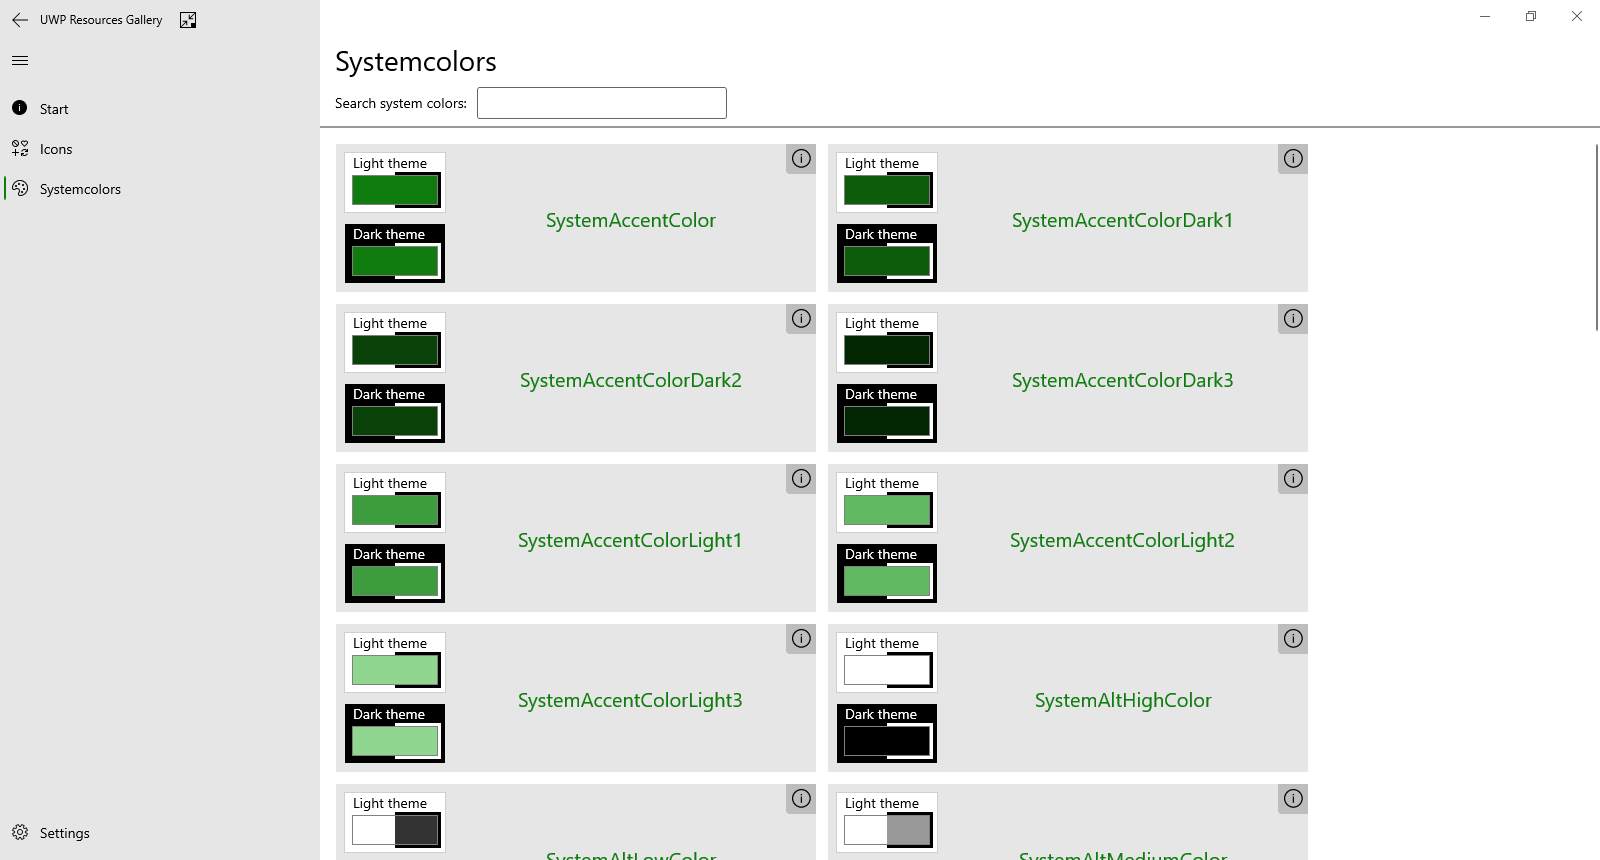
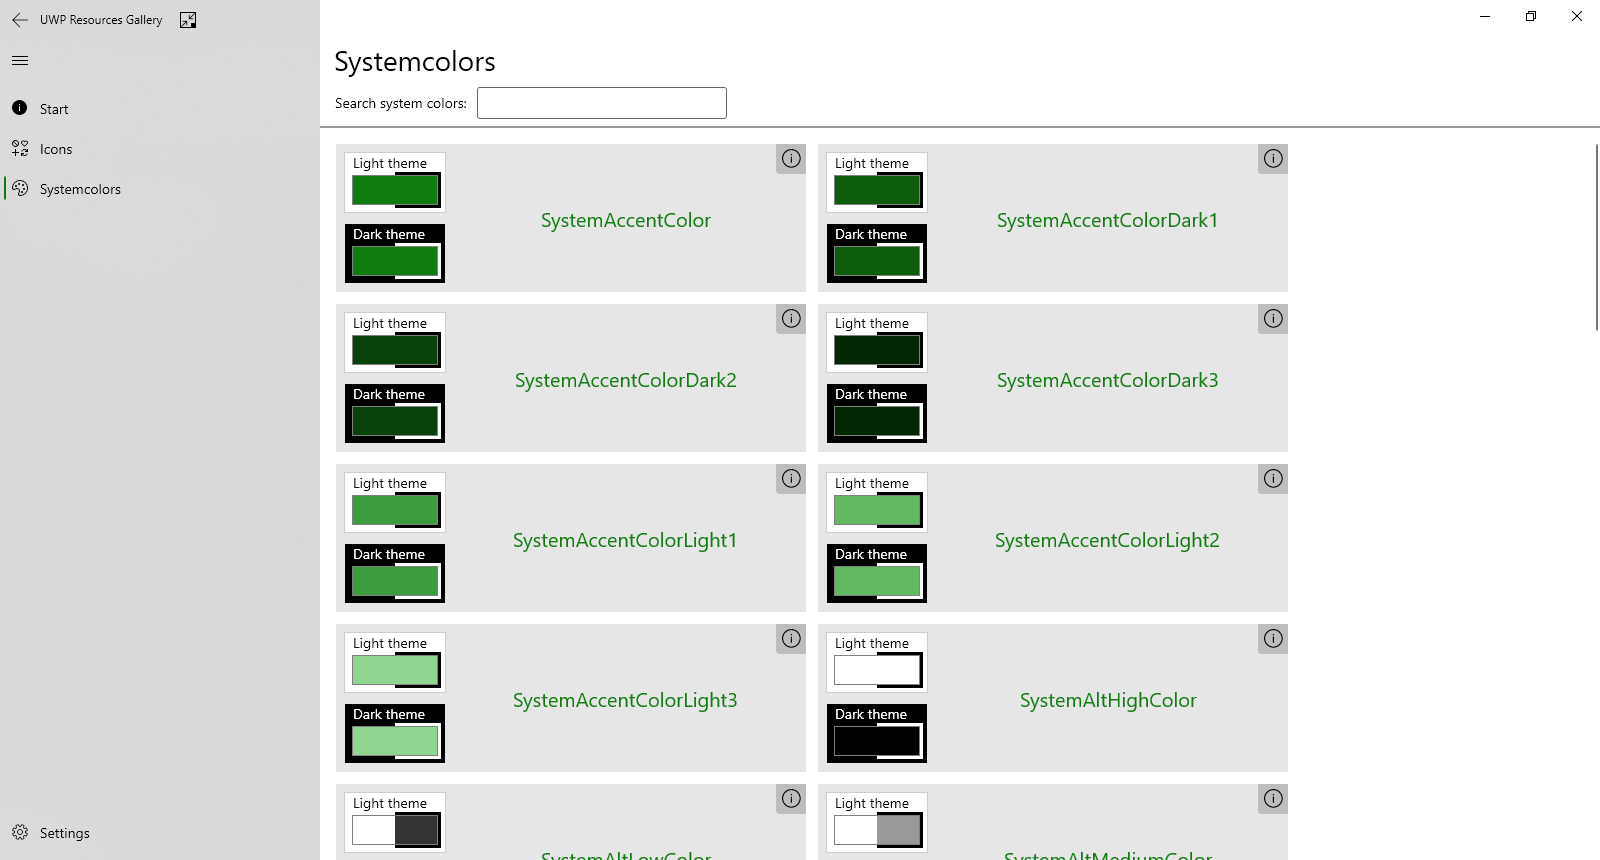
Version 1.0.2 (#11)
* Add acrylic, small changes to margins and sizing, fix systembrushes json

* Improve acrylic opacity

* Update screenshots

* Run code analysis

* Increase version

* Fix mixed access modifier

diff --git a/src/UWPResourcesGallery/App.xaml b/src/UWPResourcesGallery/App.xaml
@@ -3,12 +3,7 @@
     xmlns="http://schemas.microsoft.com/winfx/2006/xaml/presentation"
     xmlns:x="http://schemas.microsoft.com/winfx/2006/xaml"
     xmlns:contract7Present="http://schemas.microsoft.com/winfx/2006/xaml/presentation?IsApiContractPresent(Windows.Foundation.UniversalApiContract, 7)"
-    xmlns:contract7NotPresent="http://schemas.microsoft.com/winfx/2006/xaml/presentation?IsApiContractNotPresent(Windows.Foundation.UniversalApiContract,7)"
-    xmlns:local="using:UWPResourcesGallery"
-    xmlns:common="using:UWPResourcesGallery.Common"
-    xmlns:muxm="using:Microsoft.UI.Xaml.Media"
-    xmlns:muxc="using:Microsoft.UI.Xaml.Controls"
-    xmlns:primitives="using:Microsoft.UI.Xaml.Controls.Primitives">
+    xmlns:common="using:UWPResourcesGallery.Common">
     <Application.Resources>
 
         <ResourceDictionary>
@@ -20,6 +15,11 @@
             <common:BoolToVisibilityConverter x:Key="BoolToVisibilityConverter"/>
             <common:StringValueToVisibilityConverter x:Key="StringValueToVisibilityConverter"/>
 
+            <AcrylicBrush x:Key="NavigationViewExpandedPaneBackground"
+                    BackgroundSource="HostBackdrop"
+                    TintColor="{ThemeResource SystemChromeMediumColor}"
+                    TintOpacity="0.9"
+                    FallbackColor="{ThemeResource SystemChromeMediumColor}"/>
             <!-- "Copy text" - Button style-->
             <Style x:Key="CopyButtonStyle" TargetType="Button">
                 <Setter Property="Margin" Value="15,5,0,5"/>

diff --git a/src/UWPResourcesGallery/Controls/Common/CodeSample.xaml b/src/UWPResourcesGallery/Controls/Common/CodeSample.xaml
@@ -1,10 +1,7 @@
 <UserControl
     x:Class="UWPResourcesGallery.Controls.Common.CodeSample"
     xmlns="http://schemas.microsoft.com/winfx/2006/xaml/presentation"
-    xmlns:x="http://schemas.microsoft.com/winfx/2006/xaml"
-    xmlns:local="using:UWPResourcesGallery.Controls.Common"
-    xmlns:d="http://schemas.microsoft.com/expression/blend/2008"
-    xmlns:mc="http://schemas.openxmlformats.org/markup-compatibility/2006">
+    xmlns:x="http://schemas.microsoft.com/winfx/2006/xaml">
 
     <UserControl.Resources>
         <x:Double x:Key="CodeFontSize">14</x:Double>

diff --git a/src/UWPResourcesGallery/Controls/Templates/SystemColorPresenter.xaml b/src/UWPResourcesGallery/Controls/Templates/SystemColorPresenter.xaml
@@ -15,7 +15,7 @@
         <muxc:TeachingTip x:Key="InfoTeachingTip" IsLightDismissEnabled="True" Title="Information" Subtitle=""/>
     </UserControl.Resources>
 
-    <Grid Padding="8" Width="480" Background="{ThemeResource SystemControlBackgroundListLowBrush}" >
+    <Grid Padding="8" Width="470" Background="{ThemeResource SystemControlBackgroundListLowBrush}" >
         <Grid.ColumnDefinitions>
             <ColumnDefinition Width="Auto"/>
             <ColumnDefinition Width="8"/>

diff --git a/src/UWPResourcesGallery/Controls/Common/DualThemePresenter.xaml b/src/UWPResourcesGallery/Controls/Common/DualThemePresenter.xaml
@@ -2,7 +2,6 @@
     x:Class="UWPResourcesGallery.Controls.Common.DualThemePresenter"
     xmlns="http://schemas.microsoft.com/winfx/2006/xaml/presentation"
     xmlns:x="http://schemas.microsoft.com/winfx/2006/xaml"
-    xmlns:local="using:UWPResourcesGallery.Controls.Common"
     xmlns:d="http://schemas.microsoft.com/expression/blend/2008"
     xmlns:mc="http://schemas.openxmlformats.org/markup-compatibility/2006"
     mc:Ignorable="d"

diff --git a/src/UWPResourcesGallery/AppNavigation.xaml b/src/UWPResourcesGallery/AppNavigation.xaml
@@ -91,7 +91,7 @@
             <Frame x:Name="RootFrame" Padding="0,40,0,0">
                 <Frame.ContentTransitions>
                     <TransitionCollection>
-                        <NavigationThemeTransition  />
+                        <NavigationThemeTransition/>
                     </TransitionCollection>
                 </Frame.ContentTransitions>
             </Frame>

diff --git a/src/UWPResourcesGallery/Pages/IconsListPage.xaml b/src/UWPResourcesGallery/Pages/IconsListPage.xaml
@@ -44,7 +44,7 @@
             <ColumnDefinition Width="*"/>
         </Grid.ColumnDefinitions>
 
-        <common:PageHeader PageName="Segoe MDL2 Icons" Margin="15,0,0,0"/>
+        <common:PageHeader PageName="Segoe MDL2 Icons" Margin="14,0,0,0"/>
 
         <Grid Grid.Row="1">
             <Grid.ColumnDefinitions>

diff --git a/src/UWPResourcesGallery/Pages/SystemColorsPage.xaml b/src/UWPResourcesGallery/Pages/SystemColorsPage.xaml
@@ -20,7 +20,7 @@
             <ColumnDefinition Width="*"/>
         </Grid.ColumnDefinitions>
 
-        <common:PageHeader PageName="Systemcolors" Margin="15,0,0,0"/>
+        <common:PageHeader PageName="Systemcolors" Margin="14,0,0,0"/>
 
         <Grid Grid.Row="1">
             <Grid.ColumnDefinitions>

diff --git a/tests/ControlTests/UITests/CodeSampleTests.cs b/tests/ControlTests/UITests/CodeSampleTests.cs
@@ -1,17 +1,10 @@
 using Microsoft.VisualStudio.TestTools.UnitTesting;
 using Microsoft.VisualStudio.TestTools.UnitTesting.AppContainer;
 using System;
-using System.Collections.Generic;
-using System.Linq;
-using System.Text;
 using System.Threading.Tasks;
 using UWPResourcesGallery.Controls.Common;
-using Windows.UI.Xaml.Controls;
 using Windows.UI.Xaml.Automation.Peers;
-using Windows.UI.Xaml.Automation.Provider;
-using Windows.UI.Xaml;
-using Windows.UI.Core;
-using Windows.UI.ViewManagement;
+using Windows.UI.Xaml.Controls;
 
 namespace ControlTests.UITests
 {
@@ -22,13 +15,13 @@ namespace ControlTests.UITests
         [UITestMethod]
         public void VerifyRenderedText()
         {
-            var codeSampleNormal = (CodeSample)ControlsTestPage.Instance.FindName("CodeSampleNormal");
-            var codeText = (RichTextBlock)codeSampleNormal.FindName("CodeBlock");
+            CodeSample codeSampleNormal = (CodeSample)ControlsTestPage.Instance.FindName("CodeSampleNormal");
+            RichTextBlock codeText = (RichTextBlock)codeSampleNormal.FindName("CodeBlock");
             codeText.SelectAll();
 
             Assert.AreEqual("Code", codeText.SelectedText);
 
-            var codeSampleHighlightingEnabled = (CodeSample)ControlsTestPage.Instance.FindName("CodeSampleWithHighlighting");
+            CodeSample codeSampleHighlightingEnabled = (CodeSample)ControlsTestPage.Instance.FindName("CodeSampleWithHighlighting");
             codeText = (RichTextBlock)codeSampleHighlightingEnabled.FindName("CodeBlock");
             codeText.SelectAll();
 
@@ -40,19 +33,20 @@ namespace ControlTests.UITests
         {
             try
             {
-                var codeSampleNormal = (CodeSample)ControlsTestPage.Instance.FindName("CodeSampleNormal");
-                var copyButton = new ButtonAutomationPeer((Button)codeSampleNormal.FindName("CopyButton"));
+                CodeSample codeSampleNormal = (CodeSample)ControlsTestPage.Instance.FindName("CodeSampleNormal");
+                ButtonAutomationPeer copyButton = new ButtonAutomationPeer((Button)codeSampleNormal.FindName("CopyButton"));
 
                 copyButton.Invoke();
                 Assert.AreEqual("Code", GetClipBoardText());
 
-                var codeSampleHighlightingEnabled = (CodeSample)ControlsTestPage.Instance.FindName("CodeSampleWithHighlighting");
+                CodeSample codeSampleHighlightingEnabled = (CodeSample)ControlsTestPage.Instance.FindName("CodeSampleWithHighlighting");
                 copyButton = new ButtonAutomationPeer((Button)codeSampleHighlightingEnabled.FindName("CopyButton"));
 
                 copyButton.Invoke();
 
                 Assert.AreEqual("<Code />", GetClipBoardText());
-            }catch (UnauthorizedAccessException)
+            }
+            catch (UnauthorizedAccessException)
             {
                 // Pasting to clipboard is not allowed while app is in background
 #pragma warning disable CA1303 // Do not pass literals as localized parameters
@@ -61,13 +55,15 @@ namespace ControlTests.UITests
             }
         }
 
-        private static string GetClipBoardText(){
-            var clipBoard = Windows.ApplicationModel.DataTransfer.Clipboard.GetContent();
-            var task = clipBoard.GetTextAsync().AsTask();
+        private static string GetClipBoardText()
+        {
+            Windows.ApplicationModel.DataTransfer.DataPackageView clipBoard = Windows.ApplicationModel.DataTransfer.Clipboard.GetContent();
+            Task<string> task = clipBoard.GetTextAsync().AsTask();
             try
             {
                 task.RunSynchronously();
-            } catch(InvalidOperationException) { }
+            }
+            catch (InvalidOperationException) { }
             return task.Result;
         }
     }

diff --git a/tests/AppInteractionTests/TestHelper.cs b/tests/AppInteractionTests/TestHelper.cs
@@ -1,15 +1,10 @@
-using OpenQA.Selenium;
-using OpenQA.Selenium.Appium.MultiTouch;
-using OpenQA.Selenium.Appium.Windows;
+using OpenQA.Selenium.Appium.Windows;
 using System;
 using System.Collections.Generic;
-using System.Diagnostics;
-using System.Globalization;
-using System.Text;
 
 namespace AppInteractionTests
 {
-    class TestHelper
+    internal class TestHelper
     {
 
         public static ICollection<WindowsElement> GetElementsOfType(string elementType)
@@ -24,8 +19,8 @@ namespace AppInteractionTests
 
         public static List<WindowsElement> GetItemsWithContent(ICollection<WindowsElement> elements, string content)
         {
-            var elementsToReturn = new List<WindowsElement>();
-            foreach (var element in elements)
+            List<WindowsElement> elementsToReturn = new List<WindowsElement>();
+            foreach (WindowsElement element in elements)
             {
                 if (element.Text.Contains(content, StringComparison.OrdinalIgnoreCase))
                 {
@@ -33,8 +28,8 @@ namespace AppInteractionTests
                     continue;
                 }
                 // Check children if we did not find it in the items name
-                var children = element.FindElementsByTagName("Text");
-                foreach (var child in children)
+                System.Collections.ObjectModel.ReadOnlyCollection<OpenQA.Selenium.Appium.AppiumWebElement> children = element.FindElementsByTagName("Text");
+                foreach (OpenQA.Selenium.Appium.AppiumWebElement child in children)
                 {
                     if (child.Text.Contains(content, StringComparison.OrdinalIgnoreCase))
                     {
@@ -51,7 +46,7 @@ namespace AppInteractionTests
             System.Threading.Thread.Sleep(milliSeconds);
         }
 
-        public static void InvokeButton(string text,int buttonIndex)
+        public static void InvokeButton(string text, int buttonIndex)
         {
             List<WindowsElement> buttons = GetElementsOfTypeWithContent("Button", text);
 
@@ -60,15 +55,15 @@ namespace AppInteractionTests
 
         public static void NavigateToPage(string name)
         {
-            var container = TestRunInitializer.Session.FindElementByName("Mainnavigation");
+            WindowsElement container = TestRunInitializer.Session.FindElementByName("Mainnavigation");
             container.FindElementByName(name).Click();
         }
 
         public static string CurrentPageInNavigation()
         {
-            var container = TestRunInitializer.Session.FindElementByName("Mainnavigation");
-            var listItems = container.FindElementsByTagName("ListItem");
-            foreach(var item in listItems)
+            WindowsElement container = TestRunInitializer.Session.FindElementByName("Mainnavigation");
+            System.Collections.ObjectModel.ReadOnlyCollection<OpenQA.Selenium.Appium.AppiumWebElement> listItems = container.FindElementsByTagName("ListItem");
+            foreach (OpenQA.Selenium.Appium.AppiumWebElement item in listItems)
             {
                 if (item.Selected)
                 {

diff --git a/src/UWPResourcesGallery/AppNavigation.xaml.cs b/src/UWPResourcesGallery/AppNavigation.xaml.cs
@@ -1,6 +1,5 @@
 using System;
 using UWPResourcesGallery.Pages;
-using Windows.ApplicationModel.Core;
 using Windows.Foundation.Metadata;
 using Windows.UI;
 using Windows.UI.ViewManagement;
@@ -24,7 +23,7 @@ namespace UWPResourcesGallery
         {
             InitializeComponent();
             Instance = this;
-            
+
             Window.Current.SetTitleBar(WindowDraggingArea);
 
             RootFrame.Navigate(typeof(StartPage));
@@ -35,9 +34,14 @@ namespace UWPResourcesGallery
 
                 titleBar.ButtonBackgroundColor = Colors.Transparent;
                 titleBar.ButtonInactiveBackgroundColor = Colors.Transparent;
-                
+
                 RootFrame.Navigated += RootFrame_Navigated;
                 RootNavigation.BackRequested += RootNavigation_BackRequested;
+
+                if (!ApplicationView.GetForCurrentView().IsViewModeSupported(ApplicationViewMode.CompactOverlay))
+                {
+                    SwitchCompactOverlayModeButton.Visibility = Visibility.Collapsed;
+                }
             };
         }
 
@@ -89,7 +93,7 @@ namespace UWPResourcesGallery
                 RootFrame.Navigate(typeof(SettingsPage));
                 return;
             }
-            var selectedItem = sender.SelectedItem;
+            object selectedItem = sender.SelectedItem;
             if (selectedItem == _StartPage)
             {
                 RootFrame.Navigate(typeof(StartPage));
@@ -127,7 +131,7 @@ namespace UWPResourcesGallery
                 UpdateAppTitleBarPosition(15);
             }
         }
-        
+
         private void RootNavigation_PaneOpening(MUXC.NavigationView sender, object args)
         {
             if (sender.DisplayMode != MUXC.NavigationViewDisplayMode.Minimal)
@@ -161,10 +165,11 @@ namespace UWPResourcesGallery
 
         private async void SwitchCompactOverlayModeButton_Click(object sender, RoutedEventArgs e)
         {
-            if(ApplicationView.GetForCurrentView().ViewMode == ApplicationViewMode.Default)
+            if (ApplicationView.GetForCurrentView().ViewMode == ApplicationViewMode.Default)
             {
                 bool modeSwitched = await ApplicationView.GetForCurrentView().TryEnterViewModeAsync(ApplicationViewMode.CompactOverlay);
-                if(modeSwitched){
+                if (modeSwitched)
+                {
                     SwitchCompactOverlayModeButton.SetValue(AutomationProperties.NameProperty, "Switch to normal mode");
                     ToolTipService.SetToolTip(SwitchCompactOverlayModeButton, "Switch to normal mode");
                     CompactOverlayArrowsMinimizeIcon.Visibility = Visibility.Collapsed;

diff --git a/tests/ControlTests/UITests/PageHeaderTests.cs b/tests/ControlTests/UITests/PageHeaderTests.cs
@@ -1,11 +1,5 @@
 using Microsoft.VisualStudio.TestTools.UnitTesting;
 using Microsoft.VisualStudio.TestTools.UnitTesting.AppContainer;
-using System;
-using System.Collections.Generic;
-using System.Globalization;
-using System.Linq;
-using System.Text;
-using System.Threading.Tasks;
 using UWPResourcesGallery.Controls.Common;
 using Windows.UI.Xaml;
 using Windows.UI.Xaml.Automation;
@@ -24,17 +18,17 @@ namespace ControlTests.UITests
         [System.Diagnostics.CodeAnalysis.SuppressMessage("Globalization", "CA1307:Specify StringComparison", Justification = "Testing just english strings here")]
         public void RendersCorrectly()
         {
-            var pageHeader = (PageHeader)ControlsTestPage.Instance.FindName("StandardPageHeader");
+            PageHeader pageHeader = (PageHeader)ControlsTestPage.Instance.FindName("StandardPageHeader");
             Assert.IsNotNull(pageHeader);
 
             // All entries false since default(bool) = false
             bool[] foundValues = new bool[HeaderTexts.Length];
 
-            var innerContainer = VisualTreeHelper.GetChild(pageHeader, 0);
+            DependencyObject innerContainer = VisualTreeHelper.GetChild(pageHeader, 0);
             int childCount = VisualTreeHelper.GetChildrenCount(innerContainer);
             for (int childIndex = 0; childIndex < childCount; childIndex++)
             {
-                var child = (TextBlock)VisualTreeHelper.GetChild(innerContainer, childIndex);
+                TextBlock child = (TextBlock)VisualTreeHelper.GetChild(innerContainer, childIndex);
                 if (child == null)
                 {
                     continue;
@@ -61,8 +55,8 @@ namespace ControlTests.UITests
         [UITestMethod]
         public void SizingIsCorrectly()
         {
-            var pageHeader = (PageHeader)ControlsTestPage.Instance.FindName("StandardPageHeader");
-            var pageHeaderWithoutDescriptions = (PageHeader)ControlsTestPage.Instance.FindName("HeaderWithoutDescription");
+            PageHeader pageHeader = (PageHeader)ControlsTestPage.Instance.FindName("StandardPageHeader");
+            PageHeader pageHeaderWithoutDescriptions = (PageHeader)ControlsTestPage.Instance.FindName("HeaderWithoutDescription");
 
             Assert.IsTrue(pageHeader.ActualHeight > pageHeaderWithoutDescriptions.ActualHeight + 14);
         }

diff --git a/src/UWPResourcesGallery/App.xaml.cs b/src/UWPResourcesGallery/App.xaml.cs
@@ -1,5 +1,4 @@
 using System;
-using System.Threading.Tasks;
 using UWPResourcesGallery.Common;
 using UWPResourcesGallery.Model.Colors;
 using UWPResourcesGallery.Model.Icons;
@@ -17,7 +16,7 @@ namespace UWPResourcesGallery
     /// <summary>
     /// Provides application-specific behavior to supplement the default Application class.
     /// </summary>
-    sealed partial class App : Application
+    public sealed partial class App : Application
     {
         /// <summary>
         /// Initializes the singleton application object.  This is the first line of authored code
@@ -36,7 +35,7 @@ namespace UWPResourcesGallery
         /// <param name="e">Details about the launch request and process.</param>
         protected override void OnLaunched(LaunchActivatedEventArgs e)
         {
-            if(e == null)
+            if (e == null)
             {
                 return;
             }
@@ -53,7 +52,7 @@ namespace UWPResourcesGallery
                 Window.Current.Content = rootFrame;
             }
 
-            if (e!= null && e.PrelaunchActivated == false)
+            if (e != null && e.PrelaunchActivated == false)
             {
                 if (rootFrame.Content == null)
                 {
@@ -79,7 +78,7 @@ namespace UWPResourcesGallery
         /// </summary>
         /// <param name="sender">The Frame which failed navigation</param>
         /// <param name="e">Details about the navigation failure</param>
-        void OnNavigationFailed(object sender, NavigationFailedEventArgs e)
+        private void OnNavigationFailed(object sender, NavigationFailedEventArgs e)
         {
             throw new Exception("Failed to load Page " + e.SourcePageType.FullName);
         }
@@ -93,7 +92,7 @@ namespace UWPResourcesGallery
         /// <param name="e">Details about the suspend request.</param>
         private void OnSuspending(object sender, SuspendingEventArgs e)
         {
-            var deferral = e.SuspendingOperation.GetDeferral();
+            SuspendingDeferral deferral = e.SuspendingOperation.GetDeferral();
             deferral.Complete();
         }
 
